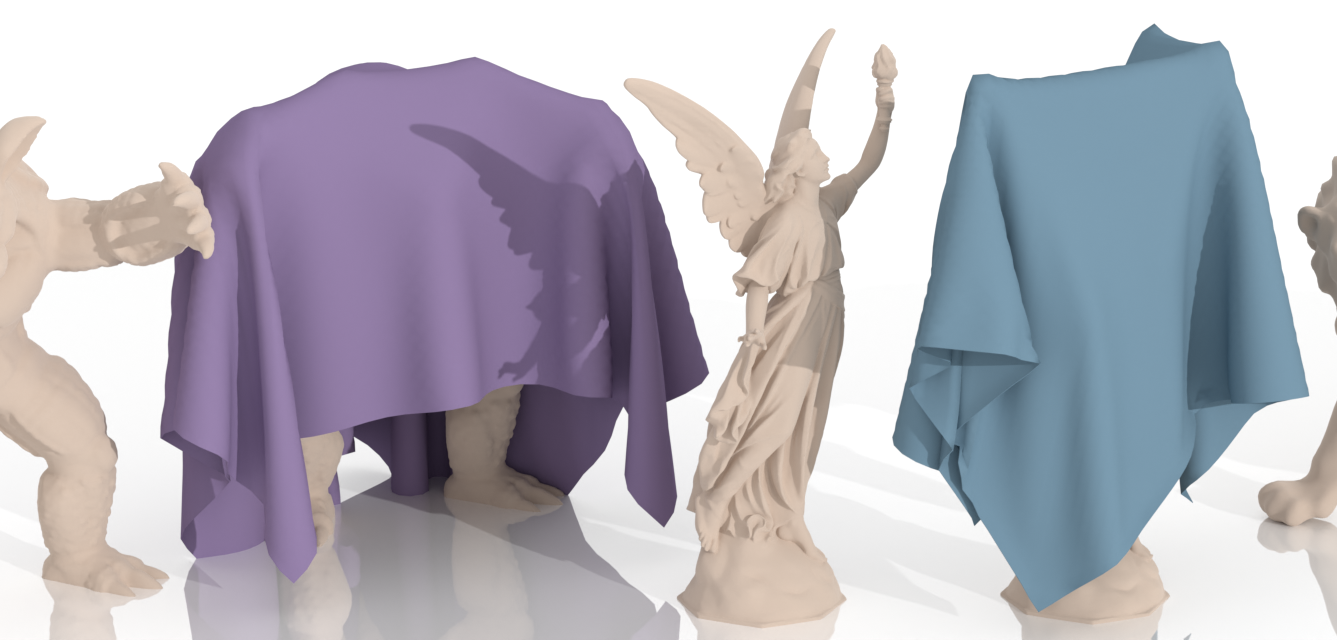
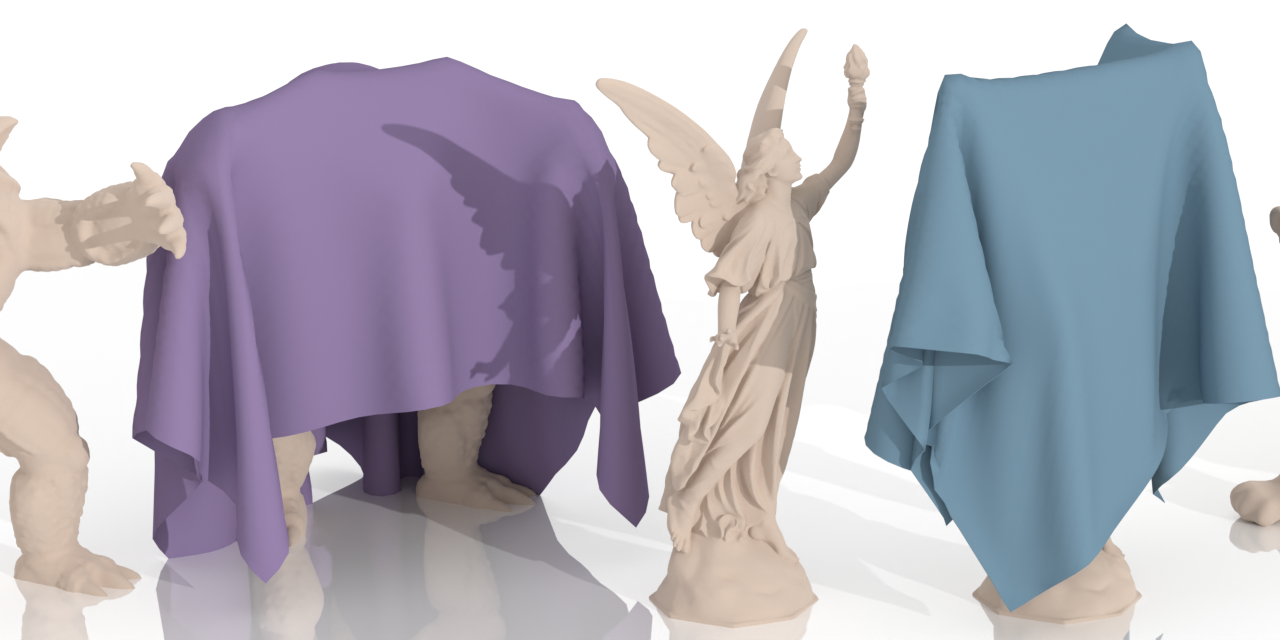
add MathCodeArt and normalize images to 2:1

diff --git a/index.html b/index.html
@@ -164,6 +164,24 @@
                 <h2> Publications & Manuscripts </h2>
                 <div class="projects">
                     <!-- ======================================================= -->
+                    <!-- MathCodeArt -->
+                    <!-- ======================================================= -->
+                    <div class="project">
+                        <div class="projects-image">
+                            <img src="images/MathCodeArt.jpeg" alt="ArticulateArena">
+                        </div>
+                        <div class="projects-text">
+                            <div class="project-text-title">Math+Code+Art: An Initiative for Learning Mathematics and Computation Through Creative Expression</div> 
+                            Jiayin Lu, Ying Jiang, Yue Sun, Wanxi Yang, <b>Yumeng He</b>, Chenfanfu Jiang
+                            <br>
+                            Special Session, ACM SIGCSE Virtual 2026
+                            <br>
+                            <a href="https://math-code-art.github.io/" target="blank">[Website]</a>
+                            <a href="https://dl.acm.org/doi/10.1145/3795860.3831041" target="blank">[Proposal]</a>
+                            <a href="https://sigcsevirtual2026.acm.org/details/sigcse-virtual-2026-special-sessions/2/Math-Code-Art-An-Initiative-for-Learning-Mathematics-and-Computation-Through-Creativ" target="blank">[Special Session]</a>
+                        </div>
+                    </div>
+                    <!-- ======================================================= -->
                     <!-- ArticulateArena -->
                     <!-- ======================================================= -->
                     <div class="project">
